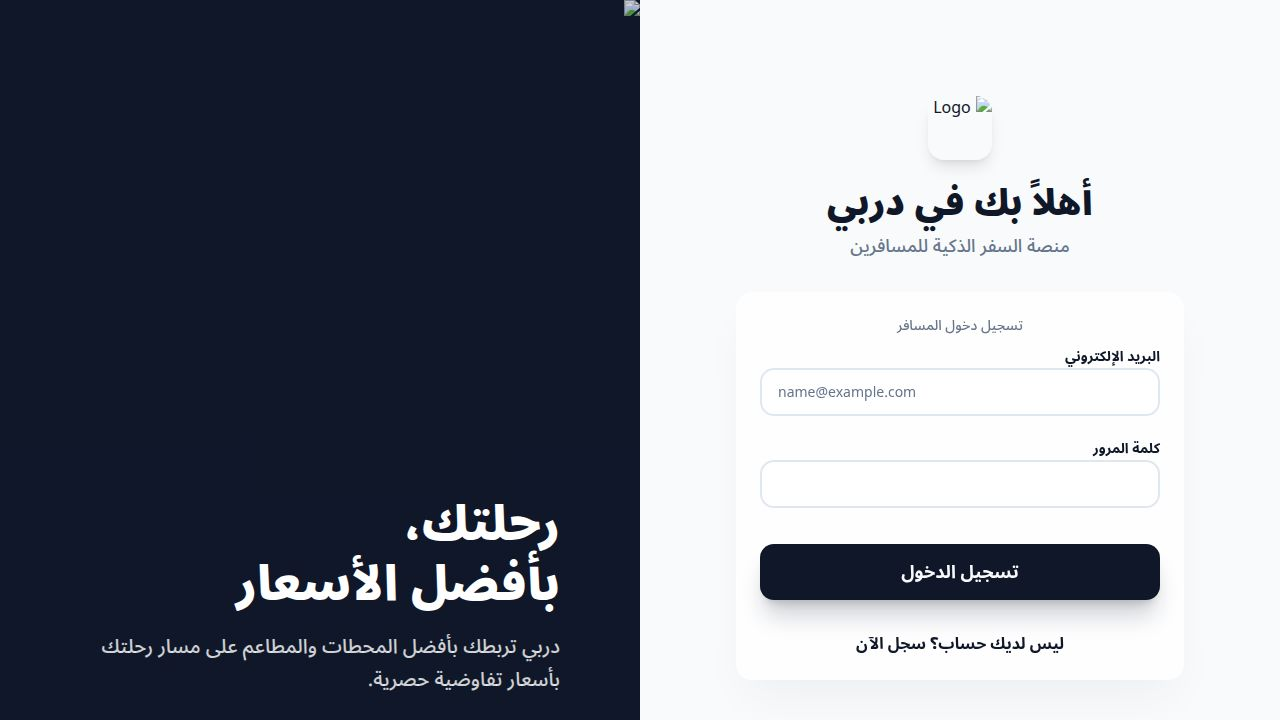
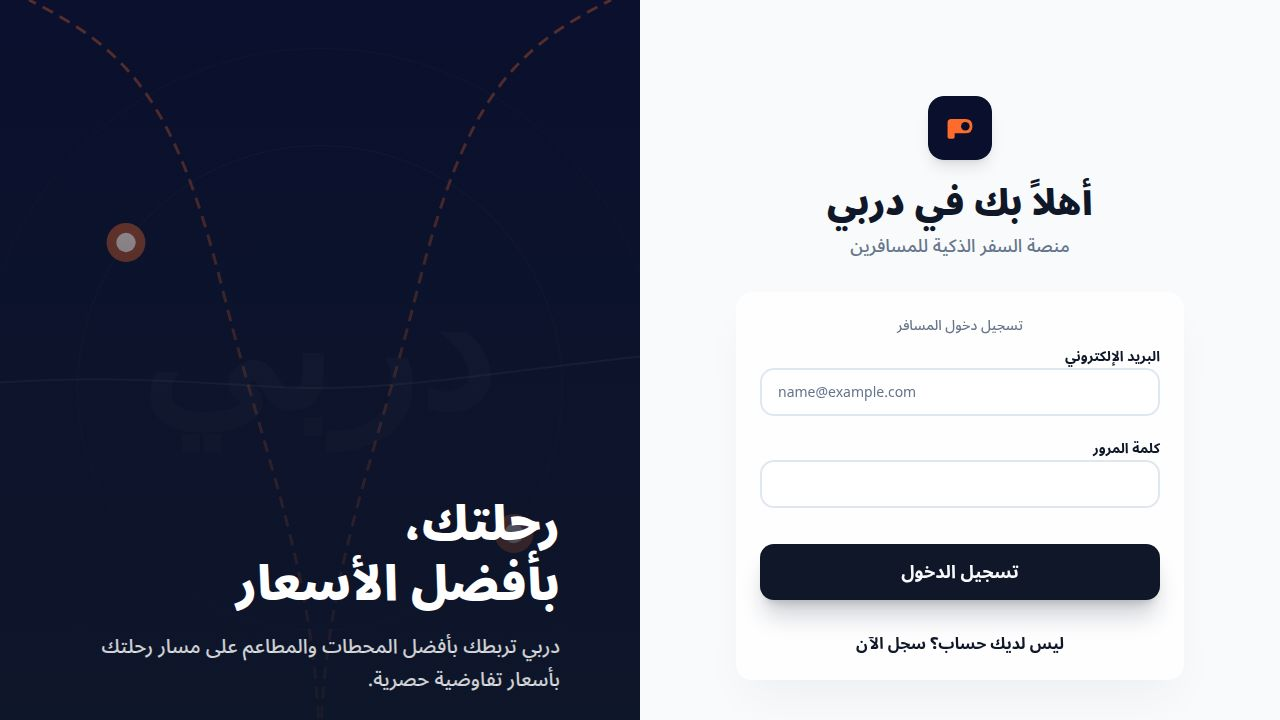
Add protected routes, improve JWT payload, and fix offer item product display
Implement route protection for client-side pages, enhance JWT payload to include user names, and resolve an issue where offer items were not displaying correct product names due to a cross-database query problem.

Replit-Commit-Author: Agent
Replit-Commit-Session-Id: e4336dbc-d7de-4517-81c0-2868a2b5f8fd
Replit-Commit-Checkpoint-Type: full_checkpoint
Replit-Commit-Event-Id: dece6412-2f43-42d3-b6bd-421d4082c5c0
Replit-Commit-Screenshot-Url: https://storage.googleapis.com/screenshot-production-us-central1/ae9d3eb2-86f6-4bde-8252-879a5c0d38d3/e4336dbc-d7de-4517-81c0-2868a2b5f8fd/jo43HDA
Replit-Helium-Checkpoint-Created: true

diff --git a/artifacts/api-server/src/routes/auth.ts b/artifacts/api-server/src/routes/auth.ts
@@ -69,7 +69,7 @@ router.post("/user/register", async (req, res) => {
     ipAddress: req.ip,
   });
 
-  const token = signToken({ id: user.id, email: user.email, actor: "USER" });
+  const token = signToken({ id: user.id, email: user.email, actor: "USER", name: user.fullName });
   res.status(201).json({ token, actor: "USER", id: user.id, email: user.email, name: user.fullName });
 });
 
@@ -117,7 +117,7 @@ router.post("/user/login", async (req, res) => {
 
   await customersDb.update(users).set({ lastLoginAt: new Date() }).where(eq(users.id, user.id));
 
-  const token = signToken({ id: user.id, email: user.email, actor: "USER" });
+  const token = signToken({ id: user.id, email: user.email, actor: "USER", name: user.fullName });
   res.json({ token, actor: "USER", id: user.id, email: user.email, name: user.fullName });
 });
 
@@ -177,7 +177,7 @@ router.post("/merchant/register", async (req, res) => {
     ipAddress: req.ip,
   });
 
-  const token = signToken({ id: merchant.id, email: merchant.email, actor: "MERCHANT" });
+  const token = signToken({ id: merchant.id, email: merchant.email, actor: "MERCHANT", name: merchant.businessName });
   res.status(201).json({ token, actor: "MERCHANT", id: merchant.id, email: merchant.email, name: merchant.businessName });
 });
 
@@ -203,7 +203,7 @@ router.post("/merchant/login", async (req, res) => {
 
   await merchantsDb.update(merchants).set({ updatedAt: new Date() }).where(eq(merchants.id, merchant.id));
 
-  const token = signToken({ id: merchant.id, email: merchant.email, actor: "MERCHANT" });
+  const token = signToken({ id: merchant.id, email: merchant.email, actor: "MERCHANT", name: merchant.businessName });
   res.json({ token, actor: "MERCHANT", id: merchant.id, email: merchant.email, name: merchant.businessName });
 });
 

diff --git a/artifacts/api-server/src/routes/offers.ts b/artifacts/api-server/src/routes/offers.ts
@@ -1,5 +1,5 @@
 import { Router } from "express";
-import { sharedDb, merchantsDb, customersDb, offers, offerItems, negotiations, transactions, commissionLedger, products, users } from "@workspace/db";
+import { sharedDb, merchantsDb, merchantsPool, customersDb, offers, offerItems, negotiations, transactions, commissionLedger, products, users } from "@workspace/db";
 import { eq, and, inArray, sql } from "drizzle-orm";
 import { authenticate, JwtPayload } from "../lib/auth.js";
 import { writeAuditLog } from "../lib/auditLog.js";
@@ -23,14 +23,20 @@ async function getOfferWithDetails(offerId: string) {
   // Get offer items from sharedDb
   const rawItems = await sharedDb.select().from(offerItems).where(eq(offerItems.offerId, offerId));
 
-  // Get product names from merchantsDb
+  // Get product names from merchantsDb pool (cross-DB lookup)
   let productMap: Record<string, string> = {};
   if (rawItems.length) {
-    const productIds = rawItems.map(i => i.productId);
-    const prods = await merchantsDb.select({ id: products.id, name: products.name })
-      .from(products)
-      .where(inArray(products.id, productIds));
-    for (const p of prods) productMap[p.id] = p.name;
+    try {
+      const productIds = rawItems.map(i => i.productId);
+      const placeholders = productIds.map((_, i) => `$${i + 1}`).join(",");
+      const r = await merchantsPool.query<{ id: string; name: string }>(
+        `SELECT id::text, name FROM products WHERE id::text IN (${placeholders})`,
+        productIds
+      );
+      for (const p of r.rows) productMap[p.id] = p.name;
+    } catch (e: any) {
+      console.error("[offers] product lookup error:", e.message);
+    }
   }
 
   const items = rawItems.map(r => ({

diff --git a/artifacts/client-app/src/components/AppLayout.tsx b/artifacts/client-app/src/components/AppLayout.tsx
@@ -29,7 +29,7 @@ export function AppLayout({ children }: AppLayoutProps) {
     <div className="min-h-screen bg-background text-foreground flex flex-col md:flex-row" dir="rtl">
       <aside className="hidden md:flex w-72 flex-col bg-card border-e border-border z-20 shadow-xl shadow-black/5 sticky top-0 h-screen overflow-y-auto">
         <div className="p-8 flex items-center gap-4 border-b border-border/50">
-          <img src={`${import.meta.env.BASE_URL}images/logo-mark.png`} alt="Darbby" className="w-10 h-10 rounded-xl shadow-sm" />
+          <img src={`${import.meta.env.BASE_URL}images/logo-mark.svg`} alt="Darbby" className="w-10 h-10 rounded-xl shadow-sm" />
           <div>
             <h1 className="text-2xl font-black text-primary tracking-tight">دربي</h1>
             <p className="text-xs text-muted-foreground font-medium">منصة المسافر</p>
@@ -71,7 +71,7 @@ export function AppLayout({ children }: AppLayoutProps) {
       <main className="flex-1 flex flex-col min-w-0 pb-20 md:pb-0 overflow-x-hidden">
         <header className="md:hidden flex items-center justify-between p-4 bg-card border-b border-border sticky top-0 z-20 shadow-sm">
           <div className="flex items-center gap-3">
-            <img src={`${import.meta.env.BASE_URL}images/logo-mark.png`} alt="Darbby" className="w-8 h-8 rounded-lg shadow-sm" />
+            <img src={`${import.meta.env.BASE_URL}images/logo-mark.svg`} alt="Darbby" className="w-8 h-8 rounded-lg shadow-sm" />
             <h1 className="text-xl font-black text-primary">دربي</h1>
           </div>
           <button onClick={handleLogout} className="p-2 text-destructive bg-destructive/10 rounded-lg">

diff --git a/artifacts/client-app/src/pages/UserProfile.tsx b/artifacts/client-app/src/pages/UserProfile.tsx
@@ -1,11 +1,12 @@
 import React from "react";
-import { useAuthStore } from "@/hooks/use-auth";
+import { useAuthStore, useProtectedRoute } from "@/hooks/use-auth";
 import { AppLayout } from "@/components/AppLayout";
 import { Card, CardContent, Button } from "@/components/ui";
 import { User, Mail, Shield, LogOut } from "lucide-react";
 import { useLocation } from "wouter";
 
 export function UserProfile() {
+  useProtectedRoute();
   const { user, logout } = useAuthStore();
   const [, setLocation] = useLocation();
 
@@ -14,7 +15,8 @@ export function UserProfile() {
     setLocation("/login");
   };
 
-  const initials = user?.email?.charAt(0)?.toUpperCase() || "م";
+  const displayName = user?.name || user?.email?.split("@")[0] || "مستخدم";
+  const initials = displayName.charAt(0).toUpperCase();
 
   return (
     <AppLayout>
@@ -32,7 +34,7 @@ export function UserProfile() {
                 {initials}
               </div>
               <div className="mb-2">
-                <h2 className="text-2xl font-black text-foreground">{user?.email?.split("@")[0]}</h2>
+                <h2 className="text-2xl font-black text-foreground">{displayName}</h2>
                 <p className="text-muted-foreground font-medium">مسافر</p>
               </div>
             </div>

diff --git a/artifacts/client-app/src/pages/LoginPage.tsx b/artifacts/client-app/src/pages/LoginPage.tsx
@@ -44,7 +44,7 @@ export function LoginPage() {
           className="w-full max-w-md space-y-8"
         >
           <div className="text-center space-y-2">
-            <img src={`${import.meta.env.BASE_URL}images/logo-mark.png`} alt="Logo" className="w-16 h-16 mx-auto mb-6 rounded-2xl shadow-lg" />
+            <img src={`${import.meta.env.BASE_URL}images/logo-mark.svg`} alt="Logo" className="w-16 h-16 mx-auto mb-6 rounded-2xl shadow-lg" />
             <h1 className="text-4xl font-black text-primary tracking-tight">أهلاً بك في دربي</h1>
             <p className="text-muted-foreground font-medium text-lg">منصة السفر الذكية للمسافرين</p>
           </div>
@@ -102,7 +102,7 @@ export function LoginPage() {
 
       <div className="hidden lg:block w-1/2 relative bg-primary overflow-hidden">
         <img
-          src={`${import.meta.env.BASE_URL}images/hero-bg.png`}
+          src={`${import.meta.env.BASE_URL}images/hero-bg.svg`}
           alt="Hero"
           className="absolute inset-0 w-full h-full object-cover opacity-80"
         />

diff --git a/artifacts/client-app/src/pages/VehicleList.tsx b/artifacts/client-app/src/pages/VehicleList.tsx
@@ -6,6 +6,7 @@ import { AppLayout } from "@/components/AppLayout";
 import { Button, Card, CardContent, Badge } from "@/components/ui";
 import { Car, Plus, Trash2, Star, Fuel, Edit3 } from "lucide-react";
 import { useToast } from "@/hooks/use-toast";
+import { useProtectedRoute } from "@/hooks/use-auth";
 
 const FUEL_LABELS: Record<string, string> = {
   PETROL_91: "بنزين 91",
@@ -24,6 +25,7 @@ const VEHICLE_TYPE_ICONS: Record<string, string> = {
 };
 
 export function VehicleList() {
+  useProtectedRoute();
   const [, setLocation] = useLocation();
   const { data: vehicles, isLoading } = useListVehicles();
   const deleteVehicle = useDeleteVehicle();

diff --git a/artifacts/api-server/src/routes/trips.ts b/artifacts/api-server/src/routes/trips.ts
@@ -81,8 +81,9 @@ router.get("/:id", async (req, res) => {
   const { id: userId } = auth(req);
   const { id } = req.params;
 
-  const raw = await sharedDb.execute<any>(sql`SELECT * FROM trips WHERE id = ${id}::uuid AND user_id = ${userId}::uuid LIMIT 1`);
-  const trip = dbRows<any>(raw)[0];
+  const [trip] = await sharedDb.select().from(trips).where(
+    and(eq(trips.id, id), eq(trips.userId, userId))
+  ).limit(1);
   if (!trip) { res.status(404).json({ error: "Trip not found" }); return; }
 
   const tripOffers = await sharedDb.select().from(offers).where(eq(offers.tripId, id));

diff --git a/artifacts/client-app/src/pages/UserOfferDetail.tsx b/artifacts/client-app/src/pages/UserOfferDetail.tsx
@@ -5,8 +5,10 @@ import { AppLayout } from "@/components/AppLayout";
 import { Card, CardContent, Badge, Button, Dialog, DialogContent, DialogTrigger, Input, Label } from "@/components/ui";
 import { formatCurrency } from "@/lib/utils";
 import { MessageCircle, CheckCircle, XCircle, RefreshCw } from "lucide-react";
+import { useProtectedRoute } from "@/hooks/use-auth";
 
 export function UserOfferDetail() {
+  useProtectedRoute();
   const { id } = useParams();
   const [, setLocation] = useLocation();
   const { data: offer, isLoading, refetch } = useGetOffer(id!);

diff --git a/artifacts/client-app/src/pages/VehicleForm.tsx b/artifacts/client-app/src/pages/VehicleForm.tsx
@@ -7,6 +7,7 @@ import { AppLayout } from "@/components/AppLayout";
 import { Button, Card, CardContent } from "@/components/ui";
 import { ArrowRight, Car } from "lucide-react";
 import { useToast } from "@/hooks/use-toast";
+import { useProtectedRoute } from "@/hooks/use-auth";
 
 type VehicleFormData = {
   nickname: string;
@@ -37,6 +38,7 @@ const VEHICLE_TYPE_OPTIONS = [
 ];
 
 export function VehicleForm() {
+  useProtectedRoute();
   const { id } = useParams<{ id?: string }>();
   const isEdit = !!id;
   const [, setLocation] = useLocation();

diff --git a/artifacts/client-app/src/pages/CreateTrip.tsx b/artifacts/client-app/src/pages/CreateTrip.tsx
@@ -4,8 +4,10 @@ import { useCreateTrip, useListVehicles } from "@workspace/api-client-react";
 import { AppLayout } from "@/components/AppLayout";
 import { Button, Card, CardContent, Input, Label } from "@/components/ui";
 import { MapPin, Navigation } from "lucide-react";
+import { useProtectedRoute } from "@/hooks/use-auth";
 
 export function CreateTrip() {
+  useProtectedRoute();
   const [, setLocation] = useLocation();
   const createTrip = useCreateTrip();
   const { data: vehicles } = useListVehicles();

diff --git a/artifacts/client-app/src/pages/NotificationCenter.tsx b/artifacts/client-app/src/pages/NotificationCenter.tsx
@@ -6,8 +6,10 @@ import { Card, CardContent, Button } from "@/components/ui";
 import { Bell, CheckCheck } from "lucide-react";
 import { formatDistanceToNow } from "date-fns";
 import { arSA } from "date-fns/locale";
+import { useProtectedRoute } from "@/hooks/use-auth";
 
 export function NotificationCenter() {
+  useProtectedRoute();
   const { data: notifications, isLoading } = useListNotifications();
   const markRead = useMarkNotificationRead();
   const queryClient = useQueryClient();

diff --git a/artifacts/client-app/src/pages/TripDetail.tsx b/artifacts/client-app/src/pages/TripDetail.tsx
@@ -5,8 +5,10 @@ import { AppLayout } from "@/components/AppLayout";
 import { Card, CardContent, Badge, Button } from "@/components/ui";
 import { formatCurrency } from "@/lib/utils";
 import { Store, ChevronLeft, Map } from "lucide-react";
+import { useProtectedRoute } from "@/hooks/use-auth";
 
 export function TripDetail() {
+  useProtectedRoute();
   const { id } = useParams();
   const { data: trip, isLoading } = useGetTripById(id!);
 
